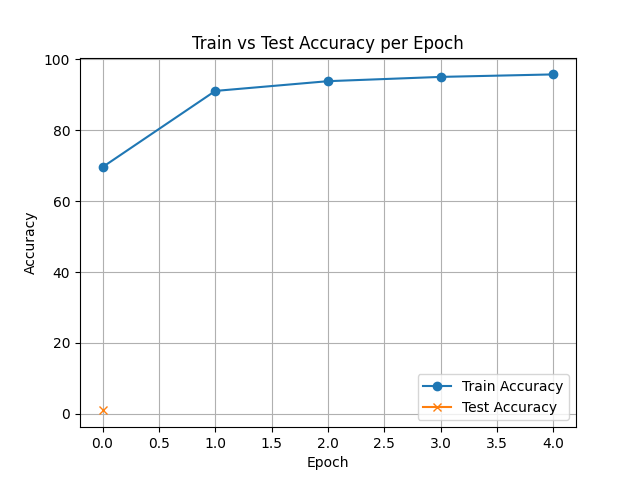
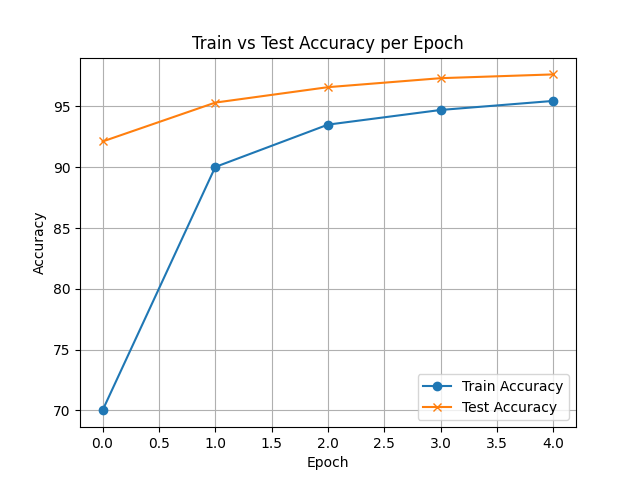
add test accuracy

diff --git a/mnist.py b/mnist.py
@@ -57,6 +57,7 @@ criterion = nn.CrossEntropyLoss()
 optimizer = optim.SGD(model.parameters(), lr=learning_rate)
 train_losses = []
 train_accuracies = []
+test_accuracies = []
 
 # ✅ Обучение
 for epoch in range(epochs):
@@ -88,6 +89,23 @@ for epoch in range(epochs):
 
     print(f"Epoch {epoch+1}/{epochs} - Loss: {total_loss:.4f}, Avg Loss: {avg_loss:.4f}, Accuracy: {accuracy:.2f}")
 
+    # ✅ Тестирование
+    model.eval()
+    correct = 0
+    total = 0
+
+    with torch.no_grad():
+        for images, labels in test_loader:
+            images, labels = images.to(device), labels.to(device)
+            outputs = model(images)
+            _, predicted = torch.max(outputs, 1)
+            total += labels.size(0)
+            correct += (predicted == labels).sum().item()
+
+    accuracy = 100 * correct / total
+    test_accuracies.append(accuracy)
+    print(f"Точность на тесте: {correct / total:.2f}%")
+
 # ✅ Вывод графика
 fig, ax1 = plt.subplots()
 
@@ -115,23 +133,6 @@ plt.savefig("train_loss_and_accuracy.png")
 plt.show()
 plt.clf()
 
-# ✅ Тестирование
-model.eval()
-correct = 0
-total = 0
-test_accuracies = []
-
-with torch.no_grad():
-    for images, labels in test_loader:
-        images, labels = images.to(device), labels.to(device)
-        outputs = model(images)
-        _, predicted = torch.max(outputs, 1)
-        total += labels.size(0)
-        correct += (predicted == labels).sum().item()
-
-accuracy = correct / total
-test_accuracies.append(accuracy)
-print(f"Точность на тесте: {100 * correct / total:.2f}%")
 
 plt.figure()
 plt.plot(train_accuracies, label='Train Accuracy', marker='o')
